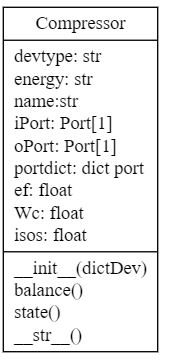
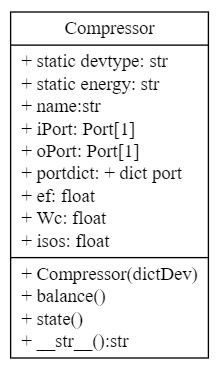
update fig

Changed region(s): [[0.0, 0.0, 0.9714, 1.0], [0.6571, 0.2121, 0.7429, 0.2424]]

diff --git a/P2/README.md b/P2/README.md
@@ -155,7 +155,7 @@ st->op1->e
 digraph "classes" {
 rankdir=BT
 charset="utf-8"
-"components.compressor.Compressor" [color="black", fontcolor="black", label="{Compressor|devtype: str\lenergy: str\lname:str \liPort: Port[1]\loPort: Port[1]\lportdict: dict port\lef: float\lWc: float\lisos: float\l|__init__(dictDev)\lbalance()\lstate()\l__str__()\l}", shape="record", style="solid"];
+"components.compressor.Compressor" [color="black", fontcolor="black", label="{Compressor|+ static devtype: str\l + static energy: str\l + name:str \l + iPort: Port[1]\l+ oPort: Port[1]\l + portdict: + dict port\l + ef: float\l + Wc: float\l + isos: float\l|+ Compressor(dictDev)\l + balance()\l + state()\l + __str__():str\l}", shape="record", style="solid"];
 }
 ```
 
@@ -193,10 +193,10 @@ class Compressor {
  + Wc: float
  + isos: float
 
- + __init__(dictDev)
+ + {static} Compressor(dictDev)
  + balance()
  + state()
- + __str()__
+ + __str()__:str
 }
 note left of Compressor::devtype
   类属性，设备类型
